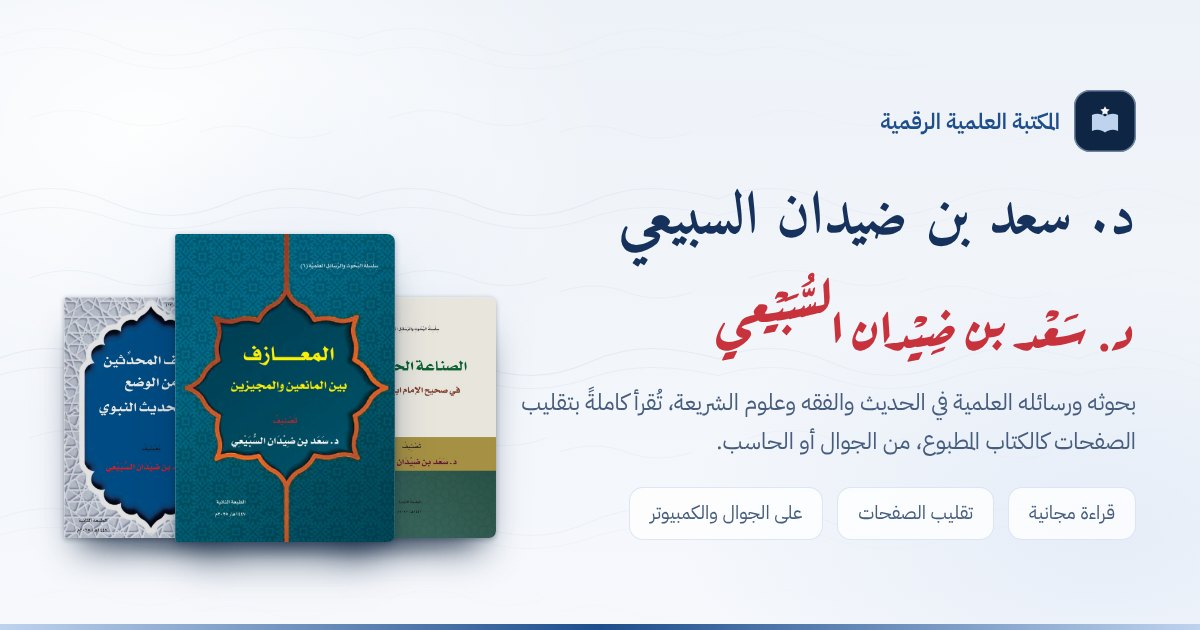
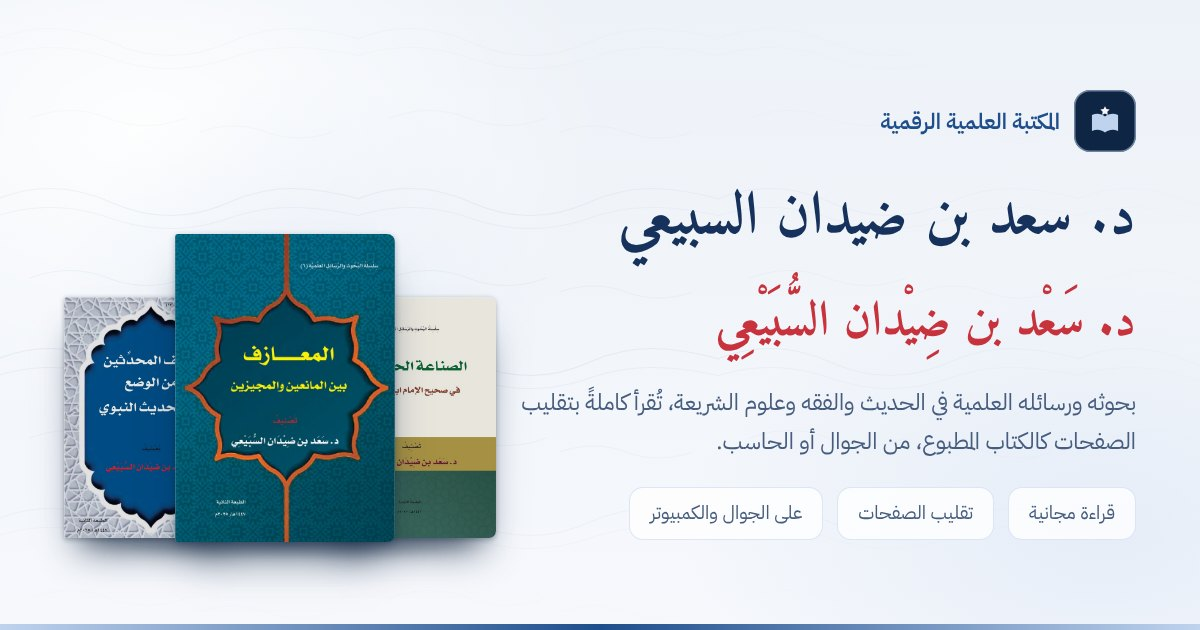
خط الاسم: النسخ المشكول (اختيار الدكتور، نموذج ٨) في العنوان والشعار والتذييل وصورة المشاركة وصفحات الكتب
Claude-Session: https://claude.ai/code/session_01Hvw5DMe523UdReNZd3H1AX

Changed region(s): [[0.5858, 0.4222, 0.9558, 0.573]]

diff --git a/kitab/b01.html b/kitab/b01.html
@@ -79,7 +79,7 @@
   <div class="wrap">
     <a class="brand" href="../" aria-label="الصفحة الرئيسية">
       <span class="brand-mark"><svg viewBox="0 0 64 64" aria-hidden="true"><path d="M10 22c8-3.5 15-2.5 22 2.5v27c-7-5-14-6-22-2.5z M54 22c-8-3.5-15-2.5-22 2.5v27c7-5 14-6 22-2.5z" style="fill:var(--t-accent)"/><path d="M32 7l2.4 4.9 5.4.8-3.9 3.8.9 5.4L32 19.4l-4.8 2.5.9-5.4-3.9-3.8 5.4-.8z" style="fill:var(--t-bg)"/></svg></span>
-      <span class="brand-txt has-art"><b class="sr">مؤلفات</b><small class="sr">د. سعد بن ضيدان السبيعي</small><span class="name-art" role="img" aria-label="د. سعد بن ضيدان السبيعي" style="--na:url(&quot;https://mohdalshehri.github.io/alsubaei/assets/name-2.svg&quot;)"></span></span>
+      <span class="brand-txt has-art"><b class="sr">مؤلفات</b><small class="sr">د. سعد بن ضيدان السبيعي</small><span class="name-art" role="img" aria-label="د. سعد بن ضيدان السبيعي" style="--na:url(&quot;https://mohdalshehri.github.io/alsubaei/assets/name-3.svg&quot;)"></span></span>
     </a>
   </div>
 </header>

diff --git a/kitab/b04.html b/kitab/b04.html
@@ -79,7 +79,7 @@
   <div class="wrap">
     <a class="brand" href="../" aria-label="الصفحة الرئيسية">
       <span class="brand-mark"><svg viewBox="0 0 64 64" aria-hidden="true"><path d="M10 22c8-3.5 15-2.5 22 2.5v27c-7-5-14-6-22-2.5z M54 22c-8-3.5-15-2.5-22 2.5v27c7-5 14-6 22-2.5z" style="fill:var(--t-accent)"/><path d="M32 7l2.4 4.9 5.4.8-3.9 3.8.9 5.4L32 19.4l-4.8 2.5.9-5.4-3.9-3.8 5.4-.8z" style="fill:var(--t-bg)"/></svg></span>
-      <span class="brand-txt has-art"><b class="sr">مؤلفات</b><small class="sr">د. سعد بن ضيدان السبيعي</small><span class="name-art" role="img" aria-label="د. سعد بن ضيدان السبيعي" style="--na:url(&quot;https://mohdalshehri.github.io/alsubaei/assets/name-2.svg&quot;)"></span></span>
+      <span class="brand-txt has-art"><b class="sr">مؤلفات</b><small class="sr">د. سعد بن ضيدان السبيعي</small><span class="name-art" role="img" aria-label="د. سعد بن ضيدان السبيعي" style="--na:url(&quot;https://mohdalshehri.github.io/alsubaei/assets/name-3.svg&quot;)"></span></span>
     </a>
   </div>
 </header>

diff --git a/kitab/b06.html b/kitab/b06.html
@@ -79,7 +79,7 @@
   <div class="wrap">
     <a class="brand" href="../" aria-label="الصفحة الرئيسية">
       <span class="brand-mark"><svg viewBox="0 0 64 64" aria-hidden="true"><path d="M10 22c8-3.5 15-2.5 22 2.5v27c-7-5-14-6-22-2.5z M54 22c-8-3.5-15-2.5-22 2.5v27c7-5 14-6 22-2.5z" style="fill:var(--t-accent)"/><path d="M32 7l2.4 4.9 5.4.8-3.9 3.8.9 5.4L32 19.4l-4.8 2.5.9-5.4-3.9-3.8 5.4-.8z" style="fill:var(--t-bg)"/></svg></span>
-      <span class="brand-txt has-art"><b class="sr">مؤلفات</b><small class="sr">د. سعد بن ضيدان السبيعي</small><span class="name-art" role="img" aria-label="د. سعد بن ضيدان السبيعي" style="--na:url(&quot;https://mohdalshehri.github.io/alsubaei/assets/name-2.svg&quot;)"></span></span>
+      <span class="brand-txt has-art"><b class="sr">مؤلفات</b><small class="sr">د. سعد بن ضيدان السبيعي</small><span class="name-art" role="img" aria-label="د. سعد بن ضيدان السبيعي" style="--na:url(&quot;https://mohdalshehri.github.io/alsubaei/assets/name-3.svg&quot;)"></span></span>
     </a>
   </div>
 </header>

diff --git a/kitab/b07.html b/kitab/b07.html
@@ -79,7 +79,7 @@
   <div class="wrap">
     <a class="brand" href="../" aria-label="الصفحة الرئيسية">
       <span class="brand-mark"><svg viewBox="0 0 64 64" aria-hidden="true"><path d="M10 22c8-3.5 15-2.5 22 2.5v27c-7-5-14-6-22-2.5z M54 22c-8-3.5-15-2.5-22 2.5v27c7-5 14-6 22-2.5z" style="fill:var(--t-accent)"/><path d="M32 7l2.4 4.9 5.4.8-3.9 3.8.9 5.4L32 19.4l-4.8 2.5.9-5.4-3.9-3.8 5.4-.8z" style="fill:var(--t-bg)"/></svg></span>
-      <span class="brand-txt has-art"><b class="sr">مؤلفات</b><small class="sr">د. سعد بن ضيدان السبيعي</small><span class="name-art" role="img" aria-label="د. سعد بن ضيدان السبيعي" style="--na:url(&quot;https://mohdalshehri.github.io/alsubaei/assets/name-2.svg&quot;)"></span></span>
+      <span class="brand-txt has-art"><b class="sr">مؤلفات</b><small class="sr">د. سعد بن ضيدان السبيعي</small><span class="name-art" role="img" aria-label="د. سعد بن ضيدان السبيعي" style="--na:url(&quot;https://mohdalshehri.github.io/alsubaei/assets/name-3.svg&quot;)"></span></span>
     </a>
   </div>
 </header>

diff --git a/kitab/b08.html b/kitab/b08.html
@@ -79,7 +79,7 @@
   <div class="wrap">
     <a class="brand" href="../" aria-label="الصفحة الرئيسية">
       <span class="brand-mark"><svg viewBox="0 0 64 64" aria-hidden="true"><path d="M10 22c8-3.5 15-2.5 22 2.5v27c-7-5-14-6-22-2.5z M54 22c-8-3.5-15-2.5-22 2.5v27c7-5 14-6 22-2.5z" style="fill:var(--t-accent)"/><path d="M32 7l2.4 4.9 5.4.8-3.9 3.8.9 5.4L32 19.4l-4.8 2.5.9-5.4-3.9-3.8 5.4-.8z" style="fill:var(--t-bg)"/></svg></span>
-      <span class="brand-txt has-art"><b class="sr">مؤلفات</b><small class="sr">د. سعد بن ضيدان السبيعي</small><span class="name-art" role="img" aria-label="د. سعد بن ضيدان السبيعي" style="--na:url(&quot;https://mohdalshehri.github.io/alsubaei/assets/name-2.svg&quot;)"></span></span>
+      <span class="brand-txt has-art"><b class="sr">مؤلفات</b><small class="sr">د. سعد بن ضيدان السبيعي</small><span class="name-art" role="img" aria-label="د. سعد بن ضيدان السبيعي" style="--na:url(&quot;https://mohdalshehri.github.io/alsubaei/assets/name-3.svg&quot;)"></span></span>
     </a>
   </div>
 </header>

diff --git a/kitab/b09.html b/kitab/b09.html
@@ -79,7 +79,7 @@
   <div class="wrap">
     <a class="brand" href="../" aria-label="الصفحة الرئيسية">
       <span class="brand-mark"><svg viewBox="0 0 64 64" aria-hidden="true"><path d="M10 22c8-3.5 15-2.5 22 2.5v27c-7-5-14-6-22-2.5z M54 22c-8-3.5-15-2.5-22 2.5v27c7-5 14-6 22-2.5z" style="fill:var(--t-accent)"/><path d="M32 7l2.4 4.9 5.4.8-3.9 3.8.9 5.4L32 19.4l-4.8 2.5.9-5.4-3.9-3.8 5.4-.8z" style="fill:var(--t-bg)"/></svg></span>
-      <span class="brand-txt has-art"><b class="sr">مؤلفات</b><small class="sr">د. سعد بن ضيدان السبيعي</small><span class="name-art" role="img" aria-label="د. سعد بن ضيدان السبيعي" style="--na:url(&quot;https://mohdalshehri.github.io/alsubaei/assets/name-2.svg&quot;)"></span></span>
+      <span class="brand-txt has-art"><b class="sr">مؤلفات</b><small class="sr">د. سعد بن ضيدان السبيعي</small><span class="name-art" role="img" aria-label="د. سعد بن ضيدان السبيعي" style="--na:url(&quot;https://mohdalshehri.github.io/alsubaei/assets/name-3.svg&quot;)"></span></span>
     </a>
   </div>
 </header>

diff --git a/kitab/b10.html b/kitab/b10.html
@@ -79,7 +79,7 @@
   <div class="wrap">
     <a class="brand" href="../" aria-label="الصفحة الرئيسية">
       <span class="brand-mark"><svg viewBox="0 0 64 64" aria-hidden="true"><path d="M10 22c8-3.5 15-2.5 22 2.5v27c-7-5-14-6-22-2.5z M54 22c-8-3.5-15-2.5-22 2.5v27c7-5 14-6 22-2.5z" style="fill:var(--t-accent)"/><path d="M32 7l2.4 4.9 5.4.8-3.9 3.8.9 5.4L32 19.4l-4.8 2.5.9-5.4-3.9-3.8 5.4-.8z" style="fill:var(--t-bg)"/></svg></span>
-      <span class="brand-txt has-art"><b class="sr">مؤلفات</b><small class="sr">د. سعد بن ضيدان السبيعي</small><span class="name-art" role="img" aria-label="د. سعد بن ضيدان السبيعي" style="--na:url(&quot;https://mohdalshehri.github.io/alsubaei/assets/name-2.svg&quot;)"></span></span>
+      <span class="brand-txt has-art"><b class="sr">مؤلفات</b><small class="sr">د. سعد بن ضيدان السبيعي</small><span class="name-art" role="img" aria-label="د. سعد بن ضيدان السبيعي" style="--na:url(&quot;https://mohdalshehri.github.io/alsubaei/assets/name-3.svg&quot;)"></span></span>
     </a>
   </div>
 </header>

diff --git a/kitab/b11.html b/kitab/b11.html
@@ -79,7 +79,7 @@
   <div class="wrap">
     <a class="brand" href="../" aria-label="الصفحة الرئيسية">
       <span class="brand-mark"><svg viewBox="0 0 64 64" aria-hidden="true"><path d="M10 22c8-3.5 15-2.5 22 2.5v27c-7-5-14-6-22-2.5z M54 22c-8-3.5-15-2.5-22 2.5v27c7-5 14-6 22-2.5z" style="fill:var(--t-accent)"/><path d="M32 7l2.4 4.9 5.4.8-3.9 3.8.9 5.4L32 19.4l-4.8 2.5.9-5.4-3.9-3.8 5.4-.8z" style="fill:var(--t-bg)"/></svg></span>
-      <span class="brand-txt has-art"><b class="sr">مؤلفات</b><small class="sr">د. سعد بن ضيدان السبيعي</small><span class="name-art" role="img" aria-label="د. سعد بن ضيدان السبيعي" style="--na:url(&quot;https://mohdalshehri.github.io/alsubaei/assets/name-2.svg&quot;)"></span></span>
+      <span class="brand-txt has-art"><b class="sr">مؤلفات</b><small class="sr">د. سعد بن ضيدان السبيعي</small><span class="name-art" role="img" aria-label="د. سعد بن ضيدان السبيعي" style="--na:url(&quot;https://mohdalshehri.github.io/alsubaei/assets/name-3.svg&quot;)"></span></span>
     </a>
   </div>
 </header>

diff --git a/kitab/b12.html b/kitab/b12.html
@@ -79,7 +79,7 @@
   <div class="wrap">
     <a class="brand" href="../" aria-label="الصفحة الرئيسية">
       <span class="brand-mark"><svg viewBox="0 0 64 64" aria-hidden="true"><path d="M10 22c8-3.5 15-2.5 22 2.5v27c-7-5-14-6-22-2.5z M54 22c-8-3.5-15-2.5-22 2.5v27c7-5 14-6 22-2.5z" style="fill:var(--t-accent)"/><path d="M32 7l2.4 4.9 5.4.8-3.9 3.8.9 5.4L32 19.4l-4.8 2.5.9-5.4-3.9-3.8 5.4-.8z" style="fill:var(--t-bg)"/></svg></span>
-      <span class="brand-txt has-art"><b class="sr">مؤلفات</b><small class="sr">د. سعد بن ضيدان السبيعي</small><span class="name-art" role="img" aria-label="د. سعد بن ضيدان السبيعي" style="--na:url(&quot;https://mohdalshehri.github.io/alsubaei/assets/name-2.svg&quot;)"></span></span>
+      <span class="brand-txt has-art"><b class="sr">مؤلفات</b><small class="sr">د. سعد بن ضيدان السبيعي</small><span class="name-art" role="img" aria-label="د. سعد بن ضيدان السبيعي" style="--na:url(&quot;https://mohdalshehri.github.io/alsubaei/assets/name-3.svg&quot;)"></span></span>
     </a>
   </div>
 </header>

diff --git a/kitab/b13.html b/kitab/b13.html
@@ -79,7 +79,7 @@
   <div class="wrap">
     <a class="brand" href="../" aria-label="الصفحة الرئيسية">
       <span class="brand-mark"><svg viewBox="0 0 64 64" aria-hidden="true"><path d="M10 22c8-3.5 15-2.5 22 2.5v27c-7-5-14-6-22-2.5z M54 22c-8-3.5-15-2.5-22 2.5v27c7-5 14-6 22-2.5z" style="fill:var(--t-accent)"/><path d="M32 7l2.4 4.9 5.4.8-3.9 3.8.9 5.4L32 19.4l-4.8 2.5.9-5.4-3.9-3.8 5.4-.8z" style="fill:var(--t-bg)"/></svg></span>
-      <span class="brand-txt has-art"><b class="sr">مؤلفات</b><small class="sr">د. سعد بن ضيدان السبيعي</small><span class="name-art" role="img" aria-label="د. سعد بن ضيدان السبيعي" style="--na:url(&quot;https://mohdalshehri.github.io/alsubaei/assets/name-2.svg&quot;)"></span></span>
+      <span class="brand-txt has-art"><b class="sr">مؤلفات</b><small class="sr">د. سعد بن ضيدان السبيعي</small><span class="name-art" role="img" aria-label="د. سعد بن ضيدان السبيعي" style="--na:url(&quot;https://mohdalshehri.github.io/alsubaei/assets/name-3.svg&quot;)"></span></span>
     </a>
   </div>
 </header>

diff --git a/kitab/b14.html b/kitab/b14.html
@@ -79,7 +79,7 @@
   <div class="wrap">
     <a class="brand" href="../" aria-label="الصفحة الرئيسية">
       <span class="brand-mark"><svg viewBox="0 0 64 64" aria-hidden="true"><path d="M10 22c8-3.5 15-2.5 22 2.5v27c-7-5-14-6-22-2.5z M54 22c-8-3.5-15-2.5-22 2.5v27c7-5 14-6 22-2.5z" style="fill:var(--t-accent)"/><path d="M32 7l2.4 4.9 5.4.8-3.9 3.8.9 5.4L32 19.4l-4.8 2.5.9-5.4-3.9-3.8 5.4-.8z" style="fill:var(--t-bg)"/></svg></span>
-      <span class="brand-txt has-art"><b class="sr">مؤلفات</b><small class="sr">د. سعد بن ضيدان السبيعي</small><span class="name-art" role="img" aria-label="د. سعد بن ضيدان السبيعي" style="--na:url(&quot;https://mohdalshehri.github.io/alsubaei/assets/name-2.svg&quot;)"></span></span>
+      <span class="brand-txt has-art"><b class="sr">مؤلفات</b><small class="sr">د. سعد بن ضيدان السبيعي</small><span class="name-art" role="img" aria-label="د. سعد بن ضيدان السبيعي" style="--na:url(&quot;https://mohdalshehri.github.io/alsubaei/assets/name-3.svg&quot;)"></span></span>
     </a>
   </div>
 </header>

diff --git a/kitab/b19.html b/kitab/b19.html
@@ -79,7 +79,7 @@
   <div class="wrap">
     <a class="brand" href="../" aria-label="الصفحة الرئيسية">
       <span class="brand-mark"><svg viewBox="0 0 64 64" aria-hidden="true"><path d="M10 22c8-3.5 15-2.5 22 2.5v27c-7-5-14-6-22-2.5z M54 22c-8-3.5-15-2.5-22 2.5v27c7-5 14-6 22-2.5z" style="fill:var(--t-accent)"/><path d="M32 7l2.4 4.9 5.4.8-3.9 3.8.9 5.4L32 19.4l-4.8 2.5.9-5.4-3.9-3.8 5.4-.8z" style="fill:var(--t-bg)"/></svg></span>
-      <span class="brand-txt has-art"><b class="sr">مؤلفات</b><small class="sr">د. سعد بن ضيدان السبيعي</small><span class="name-art" role="img" aria-label="د. سعد بن ضيدان السبيعي" style="--na:url(&quot;https://mohdalshehri.github.io/alsubaei/assets/name-2.svg&quot;)"></span></span>
+      <span class="brand-txt has-art"><b class="sr">مؤلفات</b><small class="sr">د. سعد بن ضيدان السبيعي</small><span class="name-art" role="img" aria-label="د. سعد بن ضيدان السبيعي" style="--na:url(&quot;https://mohdalshehri.github.io/alsubaei/assets/name-3.svg&quot;)"></span></span>
     </a>
   </div>
 </header>
